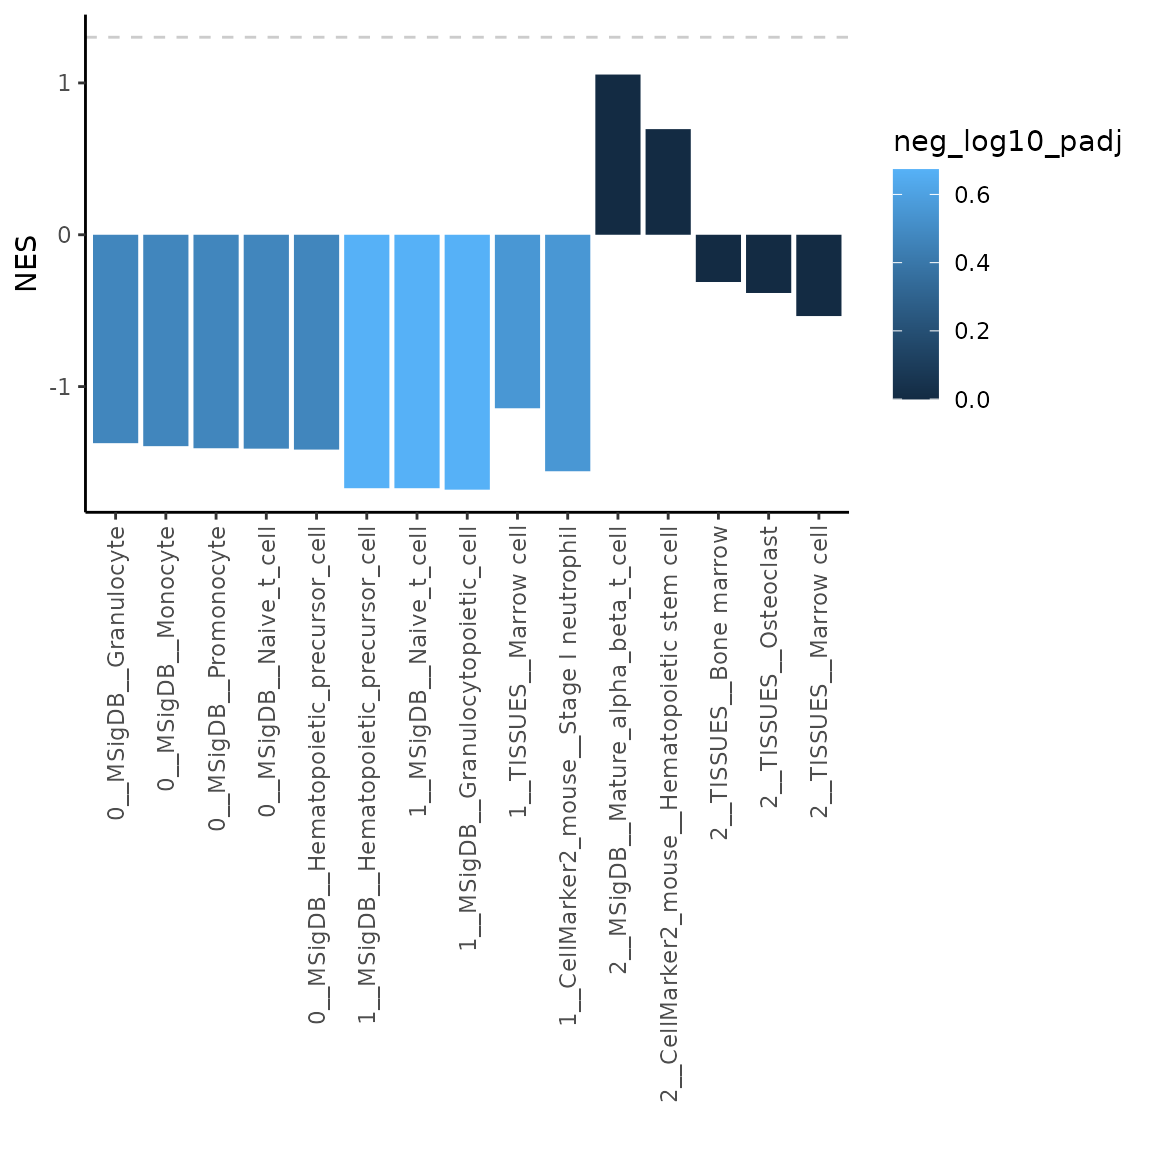
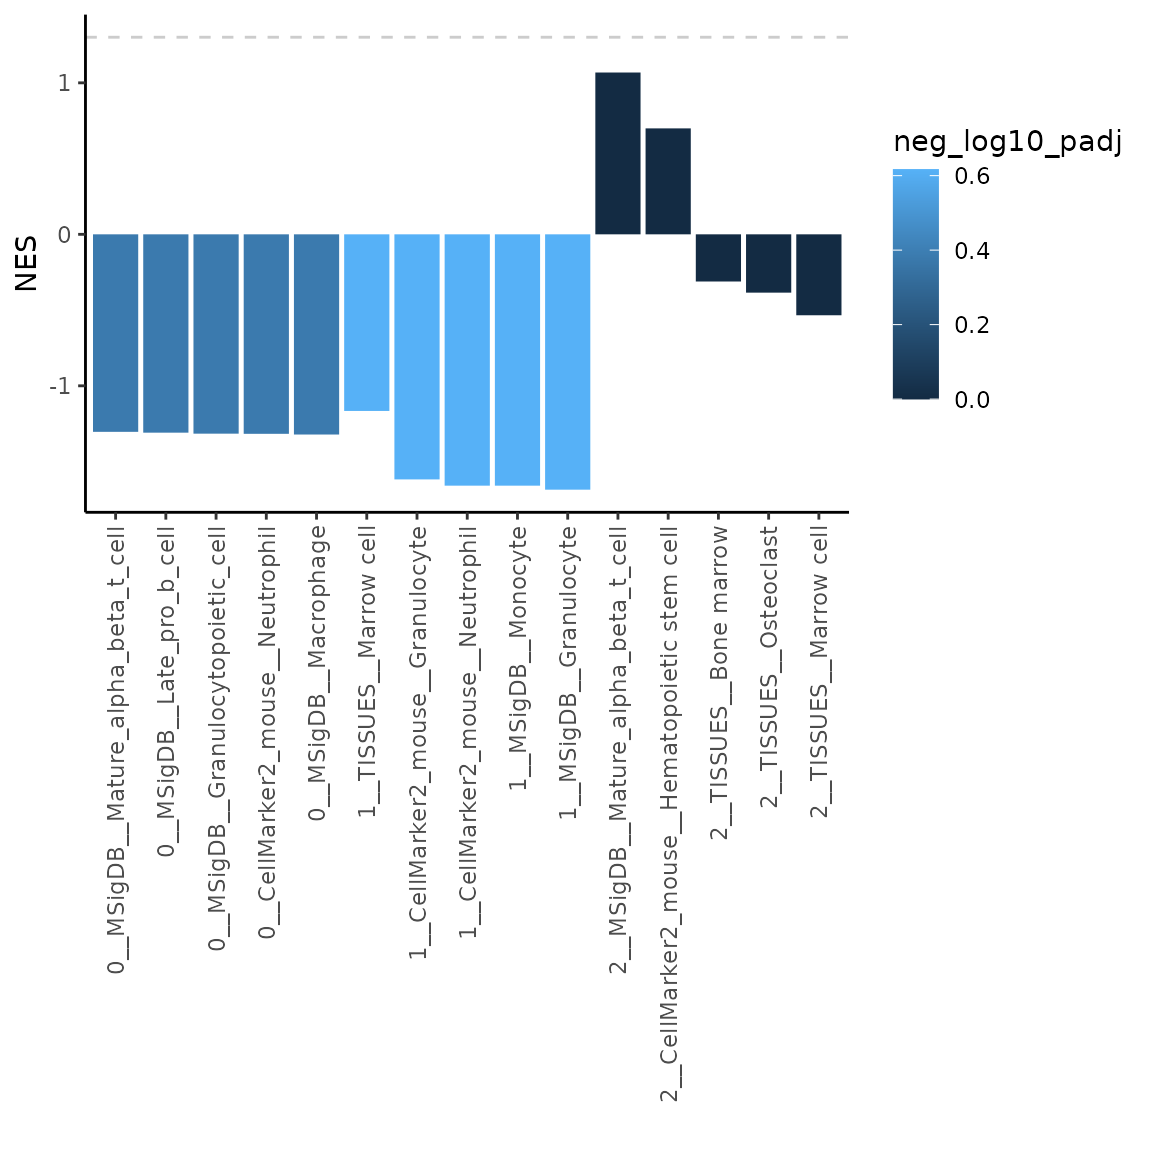
Deploying to gh-pages from @ Farber-Lab/BoneCellType@239af66db7a0bfc44b60655e19365e31489dd484 🚀

diff --git a/articles/intro_to_BoneCellType.html b/articles/intro_to_BoneCellType.html
@@ -218,21 +218,21 @@ results.</p>
 <span>  <span class="fu"><a href="https://dplyr.tidyverse.org/reference/top_n.html" class="external-link">top_n</a></span><span class="op">(</span>n <span class="op">=</span> <span class="fl">2</span>, wt <span class="op">=</span> <span class="op">-</span><span class="va">padj</span><span class="op">)</span></span>
 <span></span>
 <span><span class="va">topGSEAres</span></span></code></pre></div>
-<pre><code><span><span class="co">#&gt; <span style="color: #949494;"># A tibble: 34 × 9</span></span></span>
+<pre><code><span><span class="co">#&gt; <span style="color: #949494;"># A tibble: 24 × 9</span></span></span>
 <span><span class="co">#&gt; <span style="color: #949494;"># Groups:   cluster [3]</span></span></span>
 <span><span class="co">#&gt;    pathway             pval  padj log2err     ES   NES  size leadingEdge cluster</span></span>
 <span><span class="co">#&gt;    <span style="color: #949494; font-style: italic;">&lt;chr&gt;</span>              <span style="color: #949494; font-style: italic;">&lt;dbl&gt;</span> <span style="color: #949494; font-style: italic;">&lt;dbl&gt;</span>   <span style="color: #949494; font-style: italic;">&lt;dbl&gt;</span>  <span style="color: #949494; font-style: italic;">&lt;dbl&gt;</span> <span style="color: #949494; font-style: italic;">&lt;dbl&gt;</span> <span style="color: #949494; font-style: italic;">&lt;int&gt;</span> <span style="color: #949494; font-style: italic;">&lt;chr&gt;</span>         <span style="color: #949494; font-style: italic;">&lt;int&gt;</span></span></span>
-<span><span class="co">#&gt; <span style="color: #BCBCBC;"> 1</span> CellMarker2_mous… 0.098<span style="text-decoration: underline;">5</span> 0.329   0.164 -<span style="color: #BB0000;">0.905</span> -<span style="color: #BB0000;">1.43</span>     7 Hba-a1            0</span></span>
-<span><span class="co">#&gt; <span style="color: #BCBCBC;"> 2</span> CellMarker2_mous… 0.147  0.329   0.134 -<span style="color: #BB0000;">0.852</span> -<span style="color: #BB0000;">1.33</span>     6 S100a9,Ltf…       0</span></span>
-<span><span class="co">#&gt; <span style="color: #BCBCBC;"> 3</span> CellMarker2_mous… 0.095<span style="text-decoration: underline;">8</span> 0.329   0.163 -<span style="color: #BB0000;">0.901</span> -<span style="color: #BB0000;">1.45</span>     8 Hba-a1,Hbb…       0</span></span>
-<span><span class="co">#&gt; <span style="color: #BCBCBC;"> 4</span> CellMarker2_mous… 0.073<span style="text-decoration: underline;">9</span> 0.329   0.198 -<span style="color: #BB0000;">0.927</span> -<span style="color: #BB0000;">1.44</span>     5 Hba-a1            0</span></span>
-<span><span class="co">#&gt; <span style="color: #BCBCBC;"> 5</span> MSigDB__Granuloc… 0.104  0.329   0.164 -<span style="color: #BB0000;">0.896</span> -<span style="color: #BB0000;">1.40</span>     5 S100a9,Mal…       0</span></span>
-<span><span class="co">#&gt; <span style="color: #BCBCBC;"> 6</span> MSigDB__Granuloc… 0.137  0.329   0.126 -<span style="color: #BB0000;">0.829</span> -<span style="color: #BB0000;">1.36</span>    13 S100a9,Mal…       0</span></span>
-<span><span class="co">#&gt; <span style="color: #BCBCBC;"> 7</span> MSigDB__Hematopo… 0.108  0.329   0.153 -<span style="color: #BB0000;">0.889</span> -<span style="color: #BB0000;">1.43</span>     8 S100a9,Mal…       0</span></span>
-<span><span class="co">#&gt; <span style="color: #BCBCBC;"> 8</span> MSigDB__Late_pro… 0.154  0.329   0.130 -<span style="color: #BB0000;">0.847</span> -<span style="color: #BB0000;">1.33</span>     6 S100a9,S10…       0</span></span>
-<span><span class="co">#&gt; <span style="color: #BCBCBC;"> 9</span> MSigDB__Macropha… 0.155  0.329   0.125 -<span style="color: #BB0000;">0.847</span> -<span style="color: #BB0000;">1.36</span>     8 S100a9,Ltf…       0</span></span>
-<span><span class="co">#&gt; <span style="color: #BCBCBC;">10</span> MSigDB__Mature_a… 0.159  0.329   0.128 -<span style="color: #BB0000;">0.843</span> -<span style="color: #BB0000;">1.32</span>     6 Malat1            0</span></span>
-<span><span class="co">#&gt; <span style="color: #949494;"># ℹ 24 more rows</span></span></span></code></pre>
+<span><span class="co">#&gt; <span style="color: #BCBCBC;"> 1</span> CellMarker2_mous… 0.094<span style="text-decoration: underline;">7</span> 0.385   0.168 -<span style="color: #BB0000;">0.905</span> -<span style="color: #BB0000;">1.42</span>     7 Hba-a1            0</span></span>
+<span><span class="co">#&gt; <span style="color: #BCBCBC;"> 2</span> CellMarker2_mous… 0.173  0.385   0.124 -<span style="color: #BB0000;">0.852</span> -<span style="color: #BB0000;">1.33</span>     6 S100a9,Ltf…       0</span></span>
+<span><span class="co">#&gt; <span style="color: #BCBCBC;"> 3</span> CellMarker2_mous… 0.094<span style="text-decoration: underline;">5</span> 0.385   0.164 -<span style="color: #BB0000;">0.901</span> -<span style="color: #BB0000;">1.43</span>     8 Hba-a1,Hbb…       0</span></span>
+<span><span class="co">#&gt; <span style="color: #BCBCBC;"> 4</span> CellMarker2_mous… 0.080<span style="text-decoration: underline;">4</span> 0.385   0.194 -<span style="color: #BB0000;">0.927</span> -<span style="color: #BB0000;">1.42</span>     5 Hba-a1            0</span></span>
+<span><span class="co">#&gt; <span style="color: #BCBCBC;"> 5</span> MSigDB__Granuloc… 0.117  0.385   0.159 -<span style="color: #BB0000;">0.896</span> -<span style="color: #BB0000;">1.38</span>     5 S100a9,Mal…       0</span></span>
+<span><span class="co">#&gt; <span style="color: #BCBCBC;"> 6</span> MSigDB__Granuloc… 0.145  0.385   0.123 -<span style="color: #BB0000;">0.829</span> -<span style="color: #BB0000;">1.34</span>    13 S100a9,Mal…       0</span></span>
+<span><span class="co">#&gt; <span style="color: #BCBCBC;"> 7</span> MSigDB__Hematopo… 0.109  0.385   0.152 -<span style="color: #BB0000;">0.889</span> -<span style="color: #BB0000;">1.41</span>     8 S100a9,Mal…       0</span></span>
+<span><span class="co">#&gt; <span style="color: #BCBCBC;"> 8</span> MSigDB__Late_pro… 0.181  0.385   0.121 -<span style="color: #BB0000;">0.847</span> -<span style="color: #BB0000;">1.32</span>     6 S100a9,S10…       0</span></span>
+<span><span class="co">#&gt; <span style="color: #BCBCBC;"> 9</span> MSigDB__Macropha… 0.164  0.385   0.121 -<span style="color: #BB0000;">0.847</span> -<span style="color: #BB0000;">1.35</span>     8 S100a9,Ltf…       0</span></span>
+<span><span class="co">#&gt; <span style="color: #BCBCBC;">10</span> MSigDB__Mature_a… 0.186  0.385   0.119 -<span style="color: #BB0000;">0.843</span> -<span style="color: #BB0000;">1.32</span>     6 Malat1            0</span></span>
+<span><span class="co">#&gt; <span style="color: #949494;"># ℹ 14 more rows</span></span></span></code></pre>
 <p>As shown, the output is a table with following variables-
 <em>pathaway</em>: defines a set of markers used for GSEA analysis /
 <em>pval</em>: p-value / <em>padj</em>: adjusted p-value /

diff --git a/index.html b/index.html
@@ -10,14 +10,14 @@
     of bone-relevant markers. Two methods are implemented in the package - 
     enrichment based on Fisher's exact test or enrichment based on GSEA 
     analysis. Plotting functions are provided.">
-<title>Probable cell type identification through bone-associated marker 
-    enrichment • BoneCellType</title>
+<title>BoneCellType: Probable cell type identification through bone-associated 
+    marker enrichment • BoneCellType</title>
 <script src="deps/jquery-3.6.0/jquery-3.6.0.min.js"></script><meta name="viewport" content="width=device-width, initial-scale=1, shrink-to-fit=no">
 <link href="deps/bootstrap-5.2.2/bootstrap.min.css" rel="stylesheet">
 <script src="deps/bootstrap-5.2.2/bootstrap.bundle.min.js"></script><!-- Font Awesome icons --><link rel="stylesheet" href="https://cdnjs.cloudflare.com/ajax/libs/font-awesome/5.12.1/css/all.min.css" integrity="sha256-mmgLkCYLUQbXn0B1SRqzHar6dCnv9oZFPEC1g1cwlkk=" crossorigin="anonymous">
 <link rel="stylesheet" href="https://cdnjs.cloudflare.com/ajax/libs/font-awesome/5.12.1/css/v4-shims.min.css" integrity="sha256-wZjR52fzng1pJHwx4aV2AO3yyTOXrcDW7jBpJtTwVxw=" crossorigin="anonymous">
-<!-- bootstrap-toc --><script src="https://cdn.jsdelivr.net/gh/afeld/bootstrap-toc@v1.0.1/dist/bootstrap-toc.min.js" integrity="sha256-4veVQbu7//Lk5TSmc7YV48MxtMy98e26cf5MrgZYnwo=" crossorigin="anonymous"></script><!-- headroom.js --><script src="https://cdnjs.cloudflare.com/ajax/libs/headroom/0.11.0/headroom.min.js" integrity="sha256-AsUX4SJE1+yuDu5+mAVzJbuYNPHj/WroHuZ8Ir/CkE0=" crossorigin="anonymous"></script><script src="https://cdnjs.cloudflare.com/ajax/libs/headroom/0.11.0/jQuery.headroom.min.js" integrity="sha256-ZX/yNShbjqsohH1k95liqY9Gd8uOiE1S4vZc+9KQ1K4=" crossorigin="anonymous"></script><!-- clipboard.js --><script src="https://cdnjs.cloudflare.com/ajax/libs/clipboard.js/2.0.6/clipboard.min.js" integrity="sha256-inc5kl9MA1hkeYUt+EC3BhlIgyp/2jDIyBLS6k3UxPI=" crossorigin="anonymous"></script><!-- search --><script src="https://cdnjs.cloudflare.com/ajax/libs/fuse.js/6.4.6/fuse.js" integrity="sha512-zv6Ywkjyktsohkbp9bb45V6tEMoWhzFzXis+LrMehmJZZSys19Yxf1dopHx7WzIKxr5tK2dVcYmaCk2uqdjF4A==" crossorigin="anonymous"></script><script src="https://cdnjs.cloudflare.com/ajax/libs/autocomplete.js/0.38.0/autocomplete.jquery.min.js" integrity="sha512-GU9ayf+66Xx2TmpxqJpliWbT5PiGYxpaG8rfnBEk1LL8l1KGkRShhngwdXK1UgqhAzWpZHSiYPc09/NwDQIGyg==" crossorigin="anonymous"></script><script src="https://cdnjs.cloudflare.com/ajax/libs/mark.js/8.11.1/mark.min.js" integrity="sha512-5CYOlHXGh6QpOFA/TeTylKLWfB3ftPsde7AnmhuitiTX4K5SqCLBeKro6sPS8ilsz1Q4NRx3v8Ko2IBiszzdww==" crossorigin="anonymous"></script><!-- pkgdown --><script src="pkgdown.js"></script><meta property="og:title" content="Probable cell type identification through bone-associated marker 
-    enrichment">
+<!-- bootstrap-toc --><script src="https://cdn.jsdelivr.net/gh/afeld/bootstrap-toc@v1.0.1/dist/bootstrap-toc.min.js" integrity="sha256-4veVQbu7//Lk5TSmc7YV48MxtMy98e26cf5MrgZYnwo=" crossorigin="anonymous"></script><!-- headroom.js --><script src="https://cdnjs.cloudflare.com/ajax/libs/headroom/0.11.0/headroom.min.js" integrity="sha256-AsUX4SJE1+yuDu5+mAVzJbuYNPHj/WroHuZ8Ir/CkE0=" crossorigin="anonymous"></script><script src="https://cdnjs.cloudflare.com/ajax/libs/headroom/0.11.0/jQuery.headroom.min.js" integrity="sha256-ZX/yNShbjqsohH1k95liqY9Gd8uOiE1S4vZc+9KQ1K4=" crossorigin="anonymous"></script><!-- clipboard.js --><script src="https://cdnjs.cloudflare.com/ajax/libs/clipboard.js/2.0.6/clipboard.min.js" integrity="sha256-inc5kl9MA1hkeYUt+EC3BhlIgyp/2jDIyBLS6k3UxPI=" crossorigin="anonymous"></script><!-- search --><script src="https://cdnjs.cloudflare.com/ajax/libs/fuse.js/6.4.6/fuse.js" integrity="sha512-zv6Ywkjyktsohkbp9bb45V6tEMoWhzFzXis+LrMehmJZZSys19Yxf1dopHx7WzIKxr5tK2dVcYmaCk2uqdjF4A==" crossorigin="anonymous"></script><script src="https://cdnjs.cloudflare.com/ajax/libs/autocomplete.js/0.38.0/autocomplete.jquery.min.js" integrity="sha512-GU9ayf+66Xx2TmpxqJpliWbT5PiGYxpaG8rfnBEk1LL8l1KGkRShhngwdXK1UgqhAzWpZHSiYPc09/NwDQIGyg==" crossorigin="anonymous"></script><script src="https://cdnjs.cloudflare.com/ajax/libs/mark.js/8.11.1/mark.min.js" integrity="sha512-5CYOlHXGh6QpOFA/TeTylKLWfB3ftPsde7AnmhuitiTX4K5SqCLBeKro6sPS8ilsz1Q4NRx3v8Ko2IBiszzdww==" crossorigin="anonymous"></script><!-- pkgdown --><script src="pkgdown.js"></script><meta property="og:title" content="BoneCellType: Probable cell type identification through bone-associated 
+    marker enrichment">
 <meta property="og:description" content="The package identifies most probable cell type of single-cell 
     clusters based on enrichment of cluster variable markers within database
     of bone-relevant markers. Two methods are implemented in the package - 

diff --git a/authors.html b/authors.html
@@ -54,13 +54,13 @@
       <p></p>
 
       <p>Kupkova K (2023).
-<em>BoneCellType: Probable cell type identification through bone-associated marker
-enrichment</em>.
+<em>BoneCellType: BoneCellType: Probable cell type identification through bone-associated
+marker enrichment</em>.
 R package version 0.0.1, <a href="https://farber-lab.github.io/BoneCellType/">https://farber-lab.github.io/BoneCellType/</a>. 
 </p>
       <pre>@Manual{,
-  title = {BoneCellType: Probable cell type identification through bone-associated marker
-enrichment},
+  title = {BoneCellType: BoneCellType: Probable cell type identification through bone-associated
+marker enrichment},
   author = {Kristyna Kupkova},
   year = {2023},
   note = {R package version 0.0.1},
